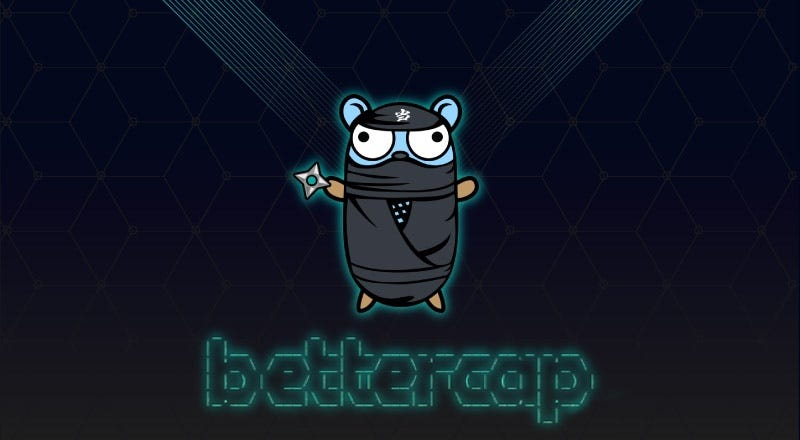
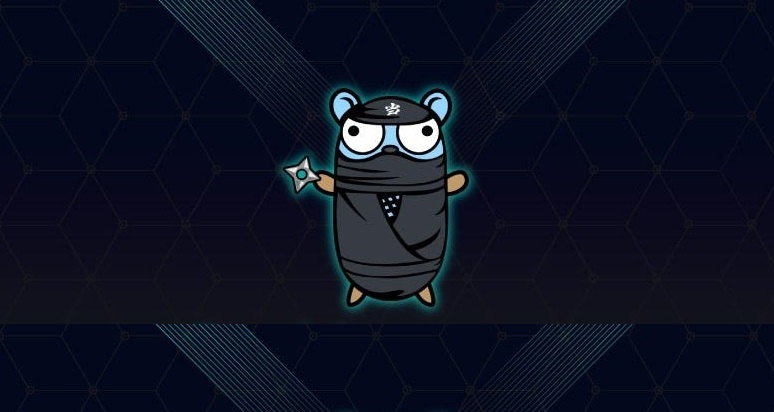
alteracoes em fotos e caminhos de html

diff --git a/indexportugues.html b/indexportugues.html
@@ -74,7 +74,7 @@ html,body,h1,h2,h3,h4,h5 {font-family: "Raleway", sans-serif}
   <div class="w3-panel">
     <div class="w3-row-padding" style="margin:0 -16px">
       <div class="w3-third">
-        <img src="./1_6iHUFcKO53Y_n5en8bQ2Vg@2x.jpg" style="width:100%" alt="Google Regional Map">
+        <img src="./ninja.jpg" style="width:100%" alt="Google Regional Map">
       </div>
       <div class="w3-twothird">
         <h5>PhiSpy Phishing para Phishing e utilizacao do Bettercap (DNS/ARP SPOOF) w/(Apache + PhP Server)</h5>
